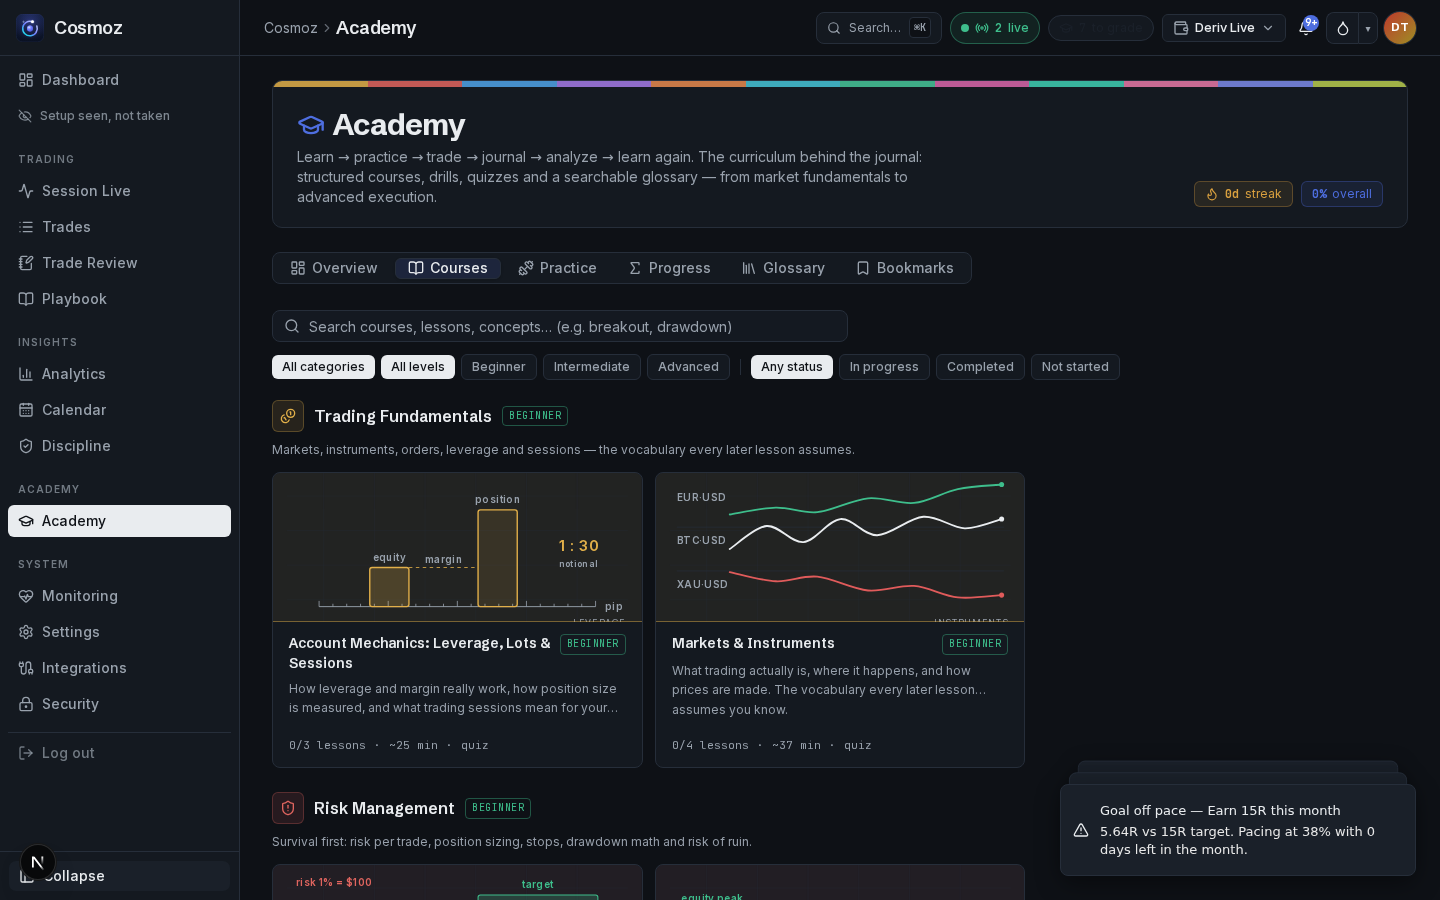
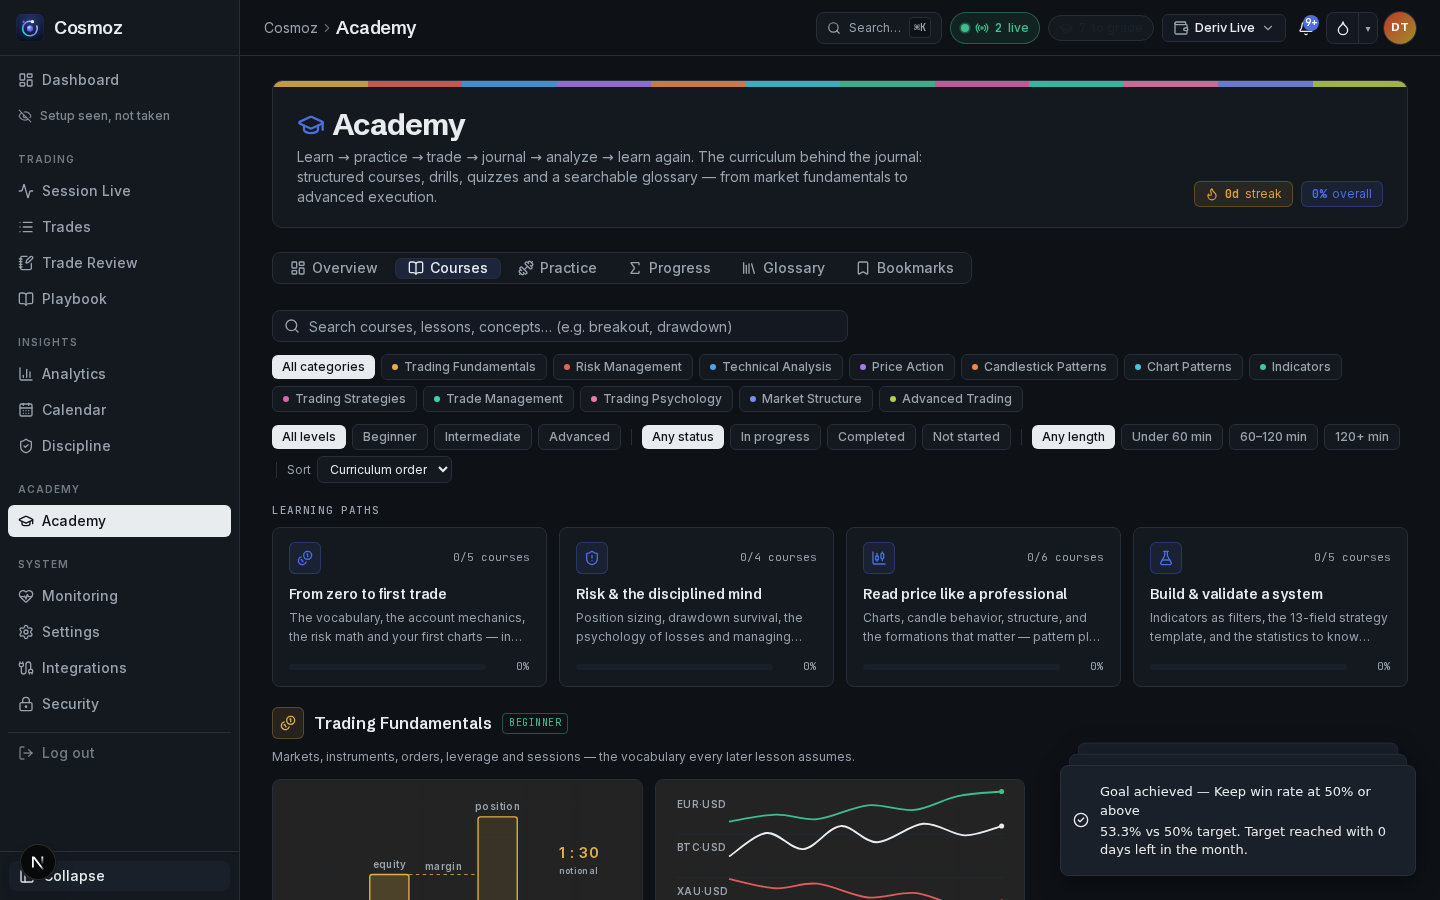
academy: final regression + screenshots — all 16 suggestions + phase-1 shipped
Regression: verify-academy.js 42/42, verify-academy-color.js 27/27,
verify-academy-phase1.js 19/19, verify-academy-reader.js 17/17,
verify-academy-practice.js 20/20, verify-academy-progress.js 17/17,
verify-academy-discovery.js 14/14, verify-academy-bridge.js 6/6.
tsc (shared+web) + eslint clean; production build OK (all pages static).
Screenshots: scripts/shots/academy-final-*.png.

diff --git a/scripts/shot-final.js b/scripts/shot-final.js
@@ -1,0 +1,33 @@
+/* eslint-disable @typescript-eslint/no-require-imports */
+const { chromium } = require("playwright");
+(async () => {
+  const browser = await chromium.launch();
+  const page = await browser.newPage({ viewport: { width: 1440, height: 900 } });
+  const shots = [];
+  await page.goto("http://localhost:3000/", { waitUntil: "networkidle", timeout: 60000 });
+  await page.waitForTimeout(1800);
+  await page.click('a[href="/academy"]');
+  await page.waitForTimeout(2000);
+  await page.screenshot({ path: "scripts/shots/academy-final-overview.png" });
+  // Weekly plan + reader with vignette + TOC
+  await page.click('[data-testid="academy-tab-courses"]');
+  await page.waitForTimeout(1100);
+  await page.screenshot({ path: "scripts/shots/academy-final-paths.png" });
+  await page.locator('[data-testid^="academy-course-card-"]').first().click();
+  await page.waitForTimeout(1100);
+  await page.locator('[data-testid^="academy-lesson-item-"]').first().click();
+  await page.waitForTimeout(1800);
+  await page.screenshot({ path: "scripts/shots/academy-final-lesson.png" });
+  // Practice (flashcards + ledger)
+  await page.click('[data-testid="academy-tab-practice"]');
+  await page.waitForTimeout(2000);
+  await page.screenshot({ path: "scripts/shots/academy-final-practice.png" });
+  // Progress (milestones + certs)
+  await page.click('[data-testid="academy-tab-progress"]');
+  await page.waitForTimeout(1800);
+  await page.evaluate(() => document.querySelector('[data-testid="academy-milestones"]')?.scrollIntoView());
+  await page.waitForTimeout(900);
+  await page.screenshot({ path: "scripts/shots/academy-final-progress.png" });
+  await browser.close();
+  console.log("SHOTS_OK");
+})();
